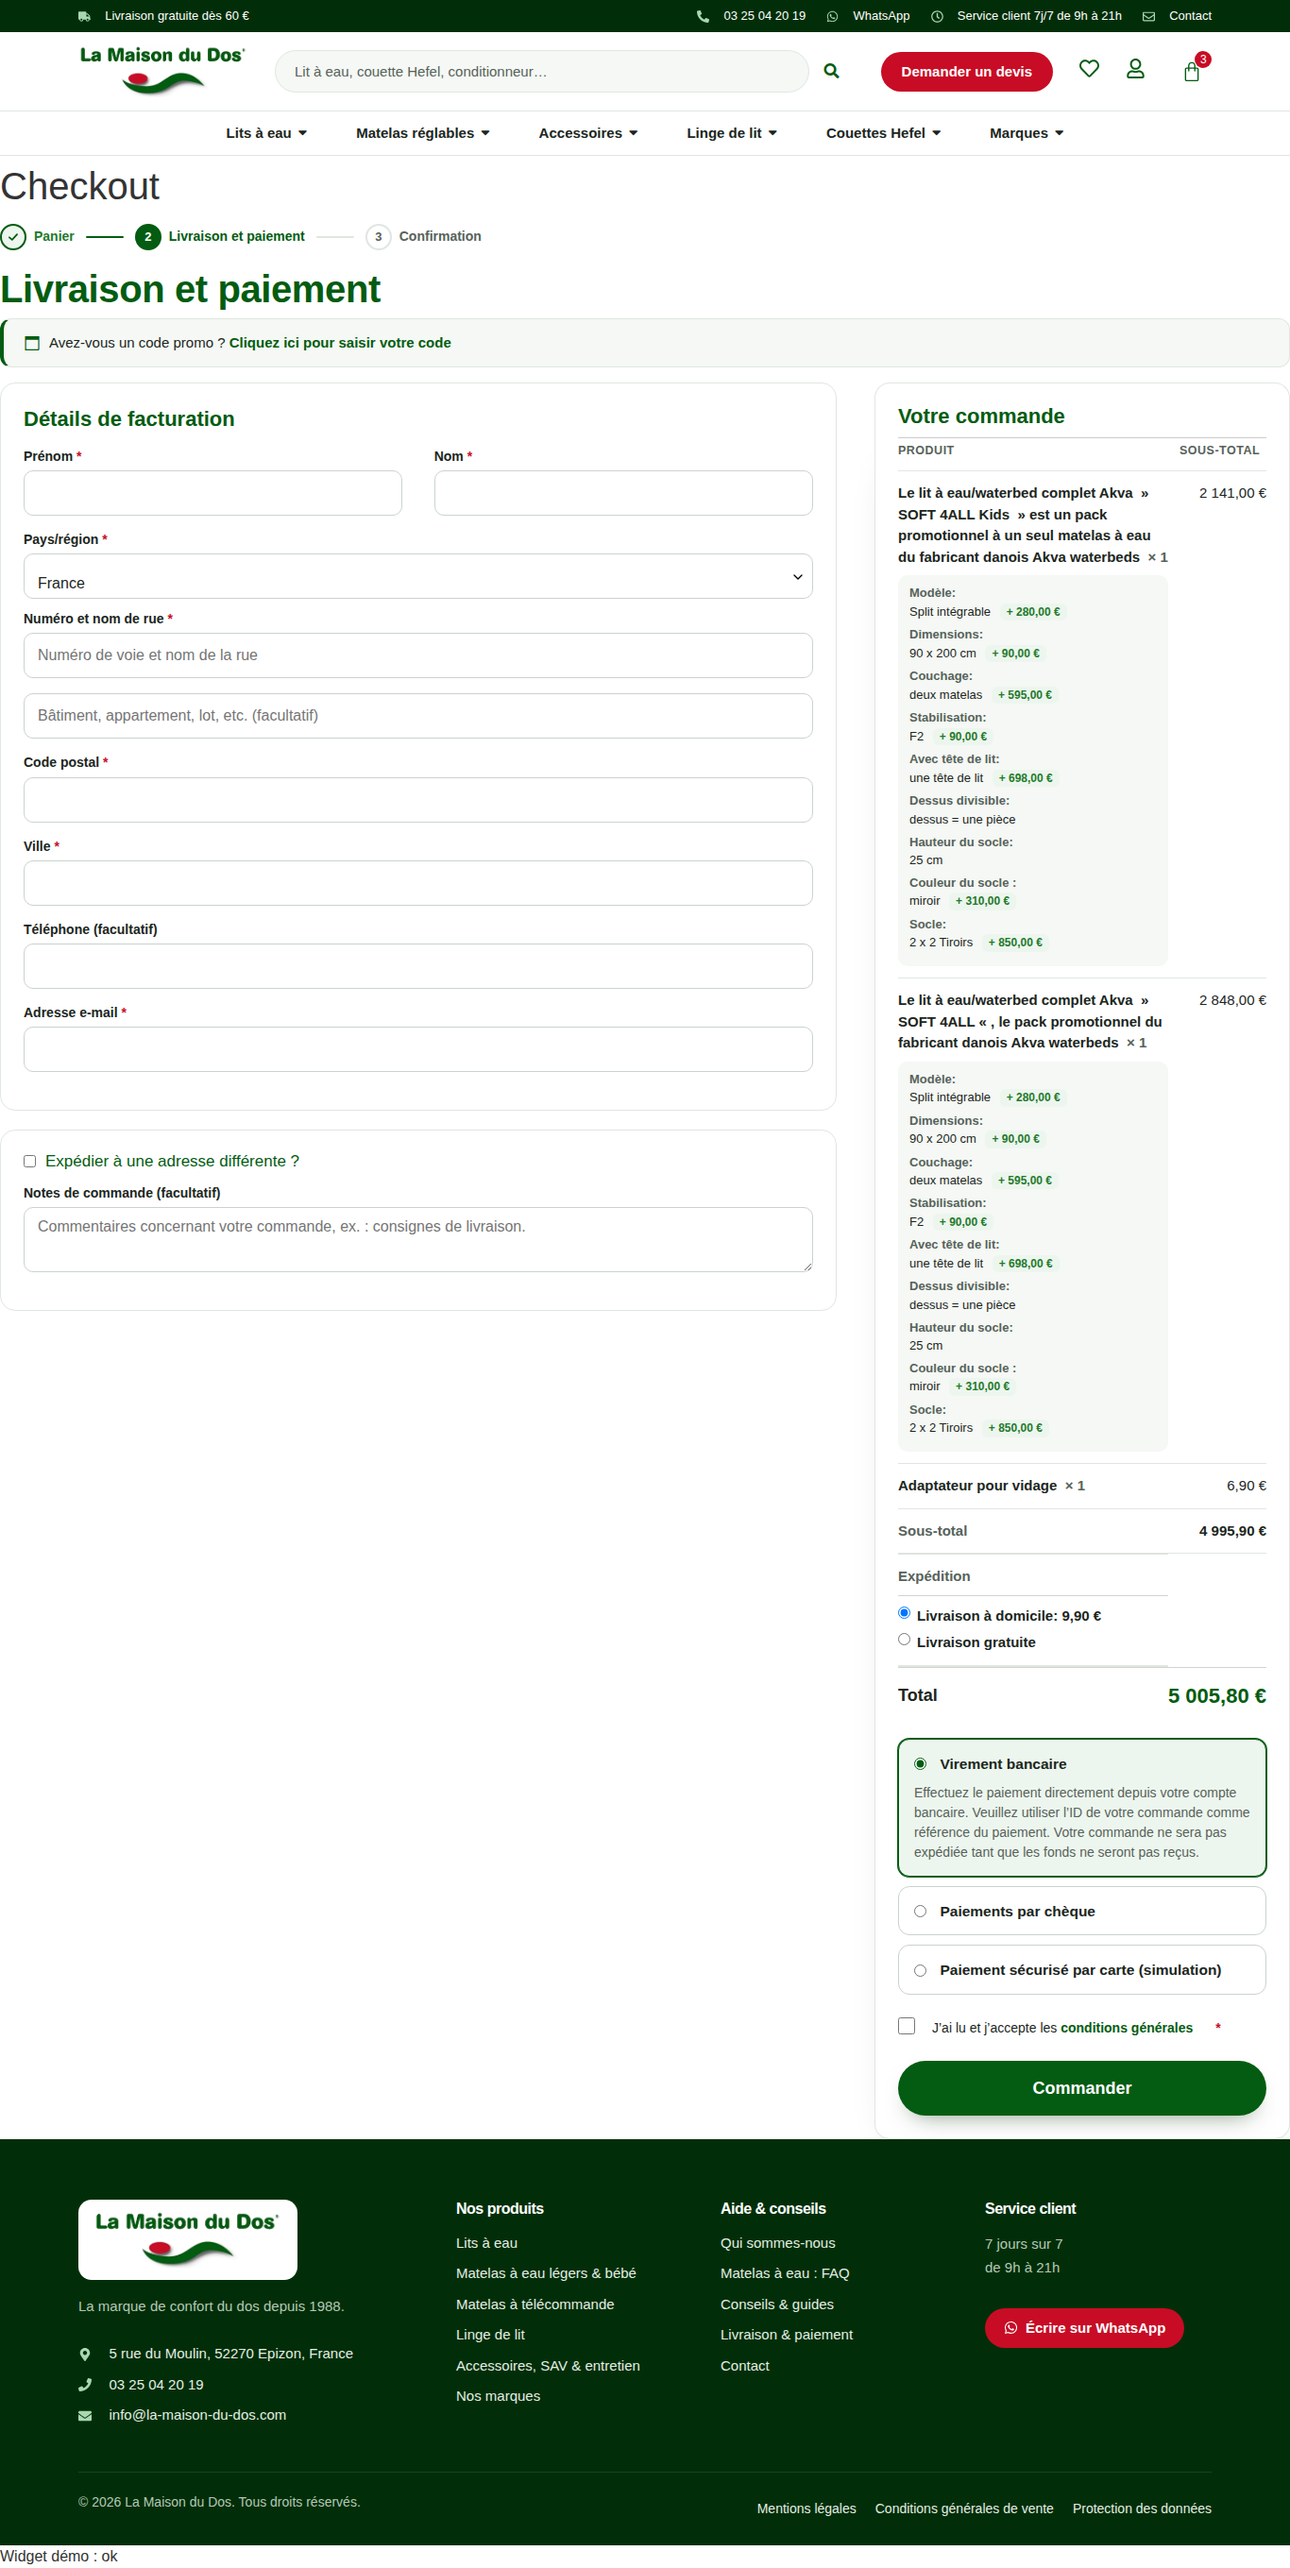
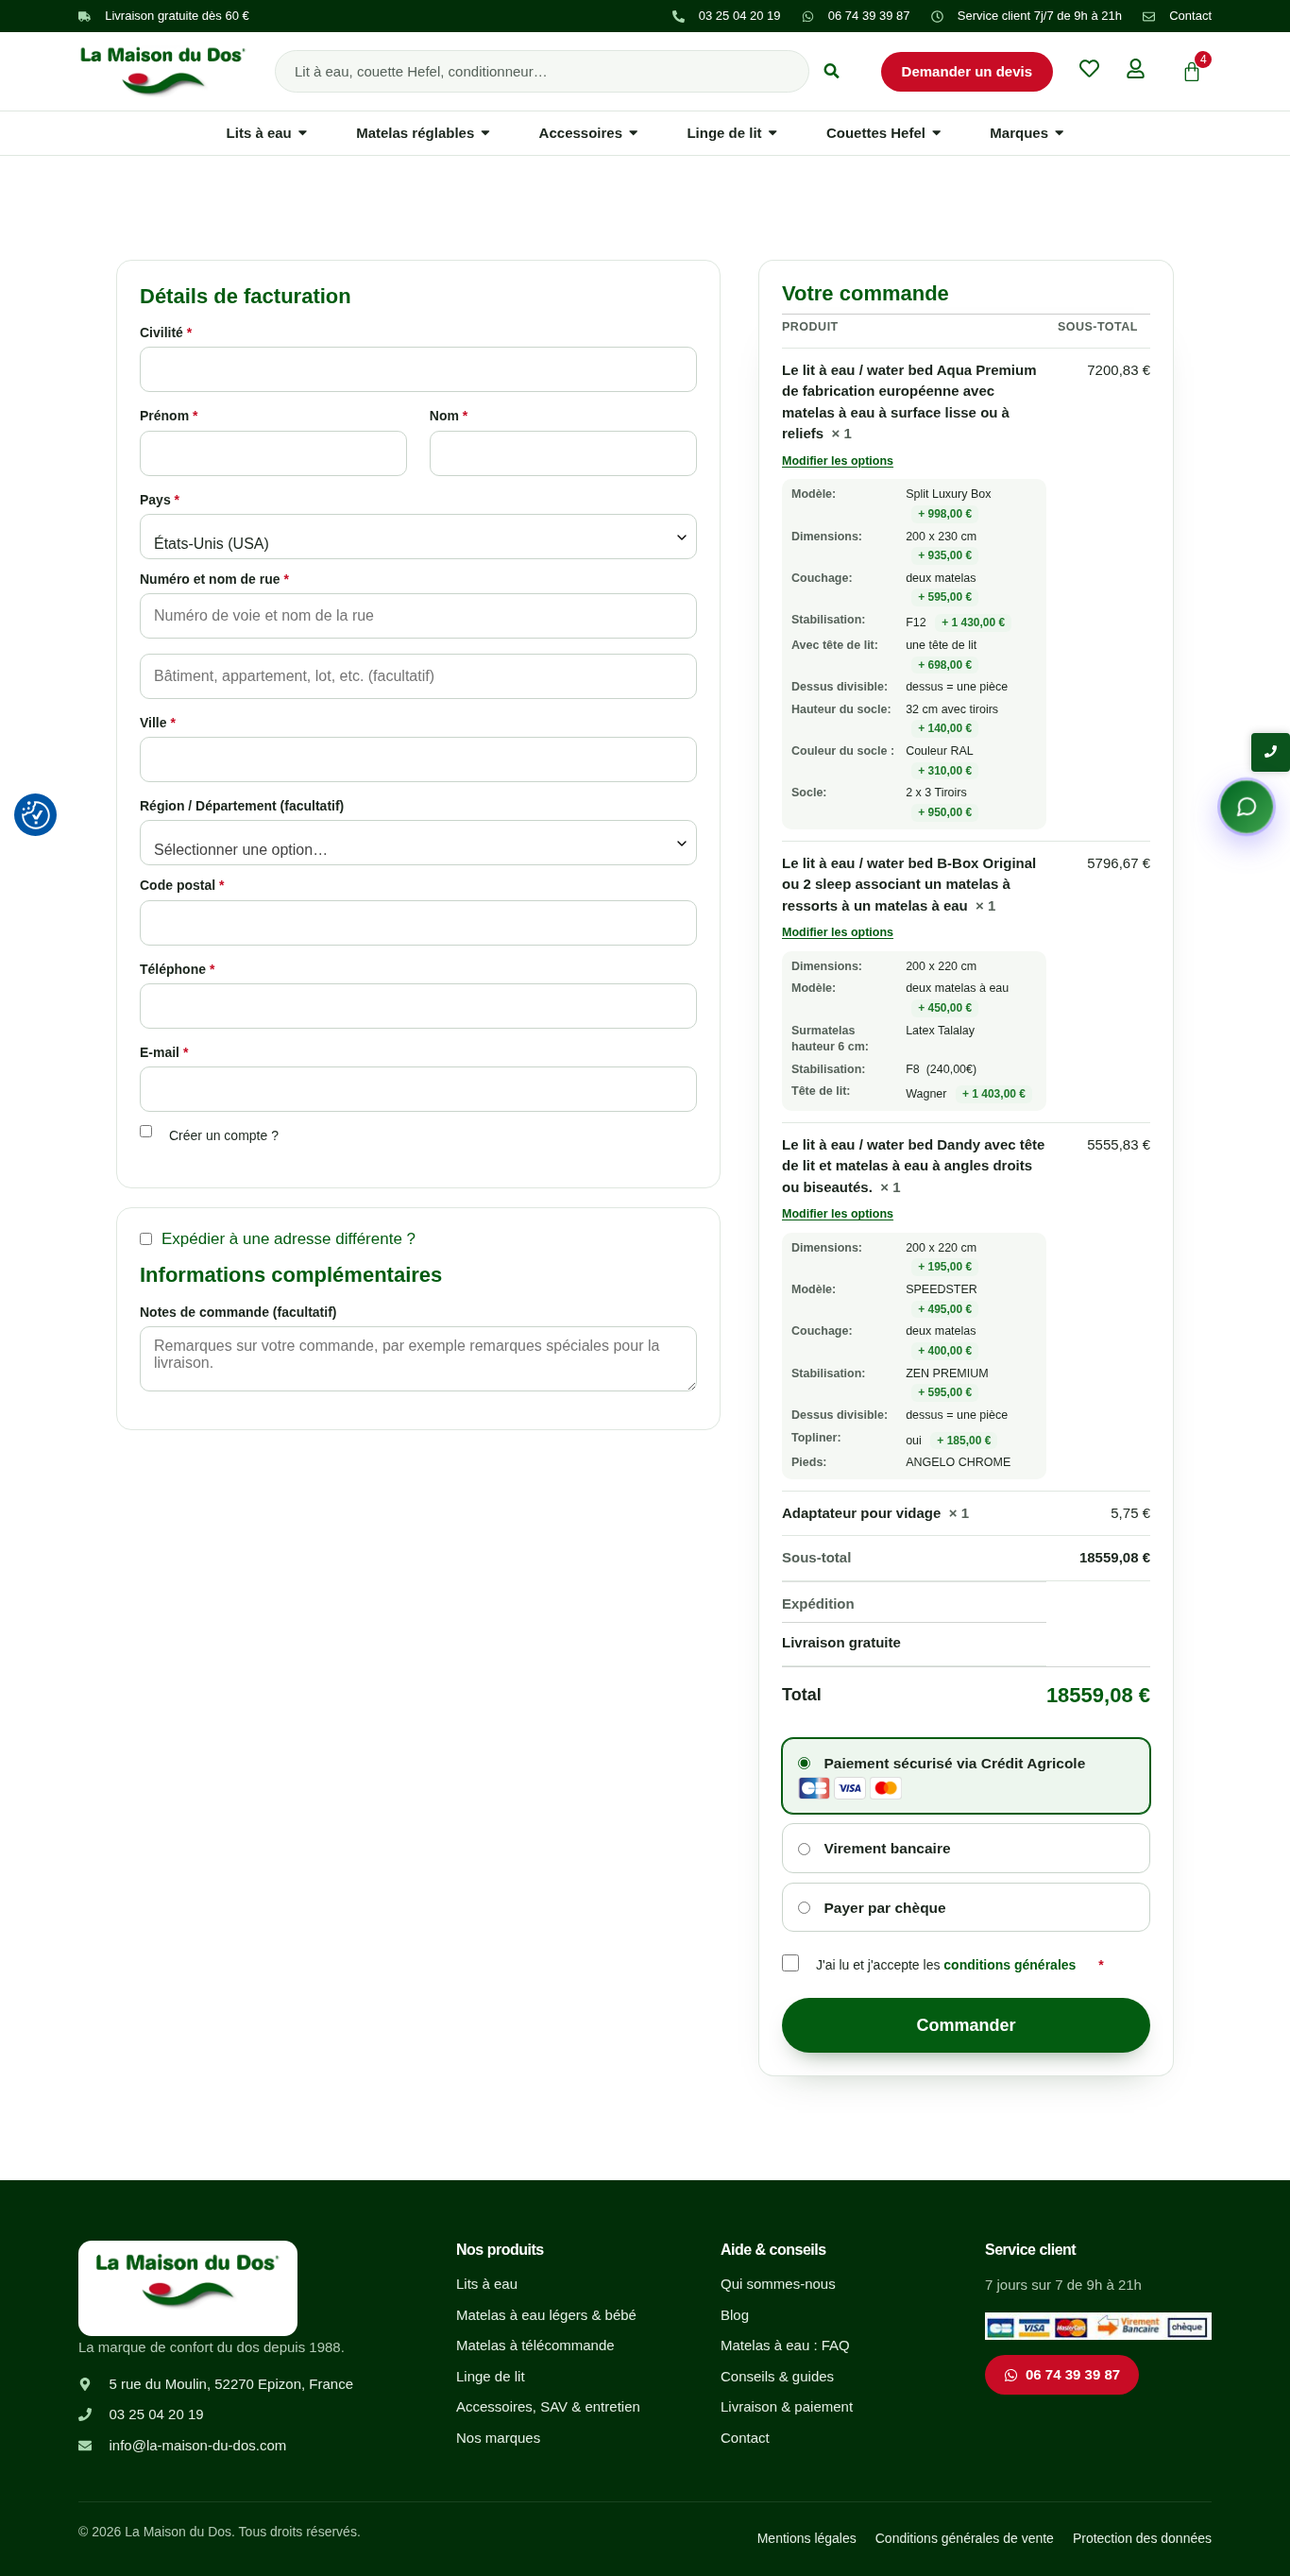
Panier et commande : options lisibles avec les libellés longs de TM Extra Product Options
- options en deux colonnes à largeur garantie (libellé 42 % au plus, valeur
  jamais écrasée) : avec « Stabilisation », « Surmatelas hauteur 6 cm »… la
  valeur s'affichait une lettre par ligne
- colonne Produit du panier élargie (colonnes Prix, Quantité, Image réduites,
  bloc total 340 px) ; même présentation dans le récapitulatif de commande
- suppléments sans signe « (240,00€) » aussi normalisés ; lien « Modifier
  les options » lisible
- vérifié sur le sous-domaine avec 3 lits à eau et leurs options réelles
- lmdd-devis-sav 2.3.2

Claude-Session: https://claude.ai/code/session_015hPKKyvCkyfdUG17wbcqGo

diff --git a/wordpress/plugins/lmdd-devis-sav/assets/lmdd-commande.css b/wordpress/plugins/lmdd-devis-sav/assets/lmdd-commande.css
@@ -32,7 +32,7 @@ body.lmdd-commande .woocommerce a.button, body.lmdd-commande .woocommerce button
 body.lmdd-commande .lmdd-card-box { border: 1px solid var(--lmdd-line); border-radius: 16px; background: #fff; }
 
 /* ---------- Panier : deux colonnes ---------- */
-body.lmdd-commande.woocommerce-cart .woocommerce { display: grid; grid-template-columns: minmax(0, 1fr) 380px; gap: 24px 40px; align-items: start; }
+body.lmdd-commande.woocommerce-cart .woocommerce { display: grid; grid-template-columns: minmax(0, 1fr) 340px; gap: 24px 40px; align-items: start; }
 body.lmdd-commande.woocommerce-cart .woocommerce > * { grid-column: 1 / -1; min-width: 0; }
 body.lmdd-commande.woocommerce-cart .woocommerce > form.woocommerce-cart-form { grid-column: 1; }
 body.lmdd-commande.woocommerce-cart .woocommerce > .cart-collaterals { grid-column: 2; position: sticky; top: 24px; width: auto; float: none; }
@@ -50,18 +50,18 @@ body.lmdd-commande .lmdd-franco__bar span { display: block; height: 100%; border
 
 /* Tableau du panier */
 body.lmdd-commande table.shop_table.cart { table-layout: fixed; width: 100%; margin: 0; border: 1px solid var(--lmdd-line); border-collapse: separate; border-spacing: 0; border-radius: 16px; background: #fff; overflow: hidden; }
-body.lmdd-commande table.shop_table.cart th { padding: 14px 16px; border: 0; border-bottom: 1px solid var(--lmdd-line); background: var(--lmdd-tint); color: var(--lmdd-muted); font-size: 12.5px; font-weight: 700; letter-spacing: .5px; text-transform: uppercase; text-align: left; }
-body.lmdd-commande table.shop_table.cart td { padding: 16px; border: 0; border-bottom: 1px solid var(--lmdd-line); background: #fff; vertical-align: middle; font-size: 15px; }
+body.lmdd-commande table.shop_table.cart th { padding: 14px 10px; border: 0; border-bottom: 1px solid var(--lmdd-line); background: var(--lmdd-tint); color: var(--lmdd-muted); font-size: 12.5px; font-weight: 700; letter-spacing: .5px; text-transform: uppercase; text-align: left; }
+body.lmdd-commande table.shop_table.cart td { padding: 16px 10px; border: 0; border-bottom: 1px solid var(--lmdd-line); background: #fff; vertical-align: middle; font-size: 15px; }
 body.lmdd-commande table.shop_table.cart tr:last-child td { border-bottom: 0; }
-body.lmdd-commande table.shop_table.cart td.product-thumbnail { width: 96px; }
-body.lmdd-commande table.shop_table.cart td.product-thumbnail img { display: block; width: 80px !important; height: 80px; object-fit: cover; border-radius: 12px; background: var(--lmdd-tint); }
+body.lmdd-commande table.shop_table.cart td.product-thumbnail { width: 84px; }
+body.lmdd-commande table.shop_table.cart td.product-thumbnail img { display: block; width: 64px !important; height: 64px; object-fit: cover; border-radius: 12px; background: var(--lmdd-tint); }
 body.lmdd-commande table.shop_table.cart td.product-name a { color: var(--lmdd-text); font-weight: 700; text-decoration: none; }
 body.lmdd-commande table.shop_table.cart td.product-name a:hover { color: var(--lmdd-green); }
 body.lmdd-commande table.shop_table.cart td.product-name dl.variation, body.lmdd-commande table.shop_table.cart td.product-name .tc-epo-metadata { margin: 6px 0 0; color: var(--lmdd-muted); font-size: 13.5px; }
 body.lmdd-commande table.shop_table.cart td.product-subtotal { color: var(--lmdd-green); font-weight: 800; }
 body.lmdd-commande table.shop_table.cart a.remove { display: inline-flex; align-items: center; justify-content: center; width: 32px; height: 32px; border-radius: 50%; color: var(--lmdd-muted) !important; font-size: 20px; line-height: 1; }
 body.lmdd-commande table.shop_table.cart a.remove:hover { background: #FDF2F3; color: var(--lmdd-red) !important; }
-body.lmdd-commande table.shop_table.cart .quantity .qty { width: 72px; min-height: 44px; padding: 6px 8px; border: 1px solid var(--lmdd-field); border-radius: 10px; font-size: 16px; text-align: center; }
+body.lmdd-commande table.shop_table.cart .quantity .qty { width: 60px; min-height: 44px; padding: 6px 8px; border: 1px solid var(--lmdd-field); border-radius: 10px; font-size: 16px; text-align: center; }
 body.lmdd-commande table.shop_table.cart td.actions { padding: 14px 16px; background: var(--lmdd-tint); text-align: right; }
 body.lmdd-commande table.shop_table.cart td.actions .coupon { float: left; display: flex; gap: 8px; }
 body.lmdd-commande table.shop_table.cart td.actions .coupon .input-text { min-height: 42px; width: 180px; padding: 6px 12px; border: 1px solid var(--lmdd-field); border-radius: 10px; }
@@ -69,11 +69,11 @@ body.lmdd-commande table.shop_table.cart td.actions button.button { min-height: 
 body.lmdd-commande table.shop_table.cart td.actions button.button:disabled { border-color: var(--lmdd-line); color: var(--lmdd-muted); opacity: 1; }
 
 /* Largeurs fixes : une longue liste d'options passe à la ligne au lieu d'élargir le tableau (sinon il déborde sous le total). */
-body.lmdd-commande table.shop_table.cart th.product-remove { width: 52px; }
-body.lmdd-commande table.shop_table.cart th.product-thumbnail { width: 104px; }
-body.lmdd-commande table.shop_table.cart th.product-price { width: 108px; }
-body.lmdd-commande table.shop_table.cart th.product-quantity { width: 108px; }
-body.lmdd-commande table.shop_table.cart th.product-subtotal { width: 116px; }
+body.lmdd-commande table.shop_table.cart th.product-remove { width: 40px; }
+body.lmdd-commande table.shop_table.cart th.product-thumbnail { width: 84px; }
+body.lmdd-commande table.shop_table.cart th.product-price { width: 96px; }
+body.lmdd-commande table.shop_table.cart th.product-quantity { width: 84px; }
+body.lmdd-commande table.shop_table.cart th.product-subtotal { width: 108px; }
 body.lmdd-commande table.shop_table.cart td.product-name { overflow-wrap: anywhere; }
 body.lmdd-commande.woocommerce-cart .woocommerce > form.woocommerce-cart-form { overflow: hidden; }
 
@@ -147,10 +147,9 @@ body.lmdd-commande .woocommerce-checkout-review-order-table tr.woocommerce-shipp
 body.lmdd-commande .woocommerce-checkout-review-order-table tr.woocommerce-shipping-totals td { display: block; width: 100%; padding: 8px 0; text-align: left; }
 body.lmdd-commande .woocommerce-checkout-review-order-table tr.woocommerce-shipping-totals th { padding-top: 12px; }
 body.lmdd-commande .woocommerce-checkout-review-order-table tr.woocommerce-shipping-totals th, body.lmdd-commande .woocommerce-checkout-review-order-table tr.woocommerce-shipping-totals td { border-bottom: 0; }
-body.lmdd-commande .woocommerce-checkout-review-order-table tr.woocommerce-shipping-totals { display: block; border-bottom: 1px solid var(--lmdd-line); }
-/* Options dans le récapitulatif (colonne étroite) : libellé au-dessus du choix. */
-body.lmdd-commande #order_review dl.variation, body.lmdd-commande #order_review dl.tc-epo-metadata { grid-template-columns: minmax(0, 1fr); gap: 1px; font-size: 13px; }
-body.lmdd-commande #order_review dl.variation dd, body.lmdd-commande #order_review dl.tc-epo-metadata dd { margin-bottom: 5px !important; }
+body.lmdd-commande .woocommerce-checkout-review-order-table tr.woocommerce-shipping-totals { display: block; width: 100%; border-bottom: 1px solid var(--lmdd-line); }
+/* Options dans le récapitulatif : même présentation que le panier, un peu plus petite. */
+body.lmdd-commande #order_review dl.variation, body.lmdd-commande #order_review dl.tc-epo-metadata { font-size: 12.5px; padding: 8px 10px; }
 
 /* Moyens de paiement */
 body.lmdd-commande #payment { margin-top: 18px; border-radius: 0; background: none; }

diff --git a/wordpress/plugins/lmdd-devis-sav/assets/lmdd-options.css b/wordpress/plugins/lmdd-devis-sav/assets/lmdd-options.css
@@ -1,18 +1,18 @@
 /* LMDD – options des produits (TM Extra Product Options, variations) dans le panier, la commande et le compte client.
    Une ligne par option : libellé à gauche, choix à droite, supplément dans une petite pastille. Toujours chargée sur ces pages. */
 html body .woocommerce dl.variation, html body dl.tc-epo-metadata {
-  display: grid !important; grid-template-columns: max-content minmax(0, 1fr); gap: 5px 14px; float: none; width: auto; max-width: 100%;
+  display: grid !important; grid-template-columns: minmax(64px, 42%) minmax(0, 1fr); gap: 6px 12px; float: none; width: auto; max-width: 100%;
   margin: 8px 0 0; padding: 10px 12px; border: 0; border-radius: 10px; background: #F5F8F4; font-size: 13.5px; font-weight: 400; font-style: normal; line-height: 1.4; }
 html body .woocommerce dl.variation dt, html body dl.tc-epo-metadata dt {
   display: block !important; float: none !important; clear: none !important; width: auto !important; margin: 0 !important; padding: 0 !important;
-  color: #56625A; font-weight: 600; white-space: normal; word-break: normal; overflow-wrap: normal; hyphens: none; }
+  color: #56625A; font-weight: 600; white-space: normal; word-break: normal; overflow-wrap: break-word; hyphens: auto; }
 html body .woocommerce dl.variation dd, html body dl.tc-epo-metadata dd {
   display: block !important; float: none !important; width: auto !important; margin: 0 !important; padding: 0 !important;
-  color: #1B261D; word-break: normal; overflow-wrap: anywhere; }
+  color: #1B261D; word-break: normal; overflow-wrap: break-word; }
 html body .woocommerce dl.variation dd p, html body dl.tc-epo-metadata dd p { display: inline; margin: 0; }
 html body dl.tc-epo-metadata .tc-price-in-cart:empty, html body dl.tc-epo-metadata .tc-quantity-in-cart:empty { display: none; }
-html body .lmdd-opt-price { display: inline-block; margin-left: 6px; padding: 1px 7px; border-radius: 6px; background: #EDF6EE; color: #1F7A2C; font-size: 12px; font-weight: 700; white-space: nowrap; }
-html body a.tm-cart-edit-options { display: inline-block; margin: 6px 0 0; color: #035C11; font-size: 12.5px; font-style: normal; font-weight: 700; text-decoration: underline; text-underline-offset: 2px; }
+html body .lmdd-opt-price { display: inline-block; margin: 2px 0 0 6px; padding: 1px 7px; border-radius: 6px; background: #EDF6EE; color: #1F7A2C; font-size: 12px; font-weight: 700; white-space: nowrap; }
+html body a.tm-cart-edit-options { display: inline-block; margin: 6px 0 0; color: #035C11 !important; font-size: 12.5px !important; font-style: normal !important; font-weight: 700; text-decoration: underline; text-underline-offset: 2px; }
 /* Écran étroit : libellé au-dessus du choix. */
 @media (max-width: 480px) {
   html body .woocommerce dl.variation, html body dl.tc-epo-metadata { grid-template-columns: minmax(0, 1fr); gap: 2px; }

diff --git a/wordpress/plugins/lmdd-devis-sav/includes/class-lmdd-ds-commande.php b/wordpress/plugins/lmdd-devis-sav/includes/class-lmdd-ds-commande.php
@@ -43,7 +43,7 @@ final class LMDD_DS_Commande {
 	}
 
 	public static function format_option_prices( $html ) {
-		return preg_replace_callback( '/\(\s*([+-])\s*([\d][\d\s\x{00A0}\x{202F}.,]*)\s*(?:€|&euro;|EUR)\s*\)/u', function ( $m ) {
+		return preg_replace_callback( '/\(\s*([+-]?)\s*([\d][\d\s\x{00A0}\x{202F}.,]*)\s*(?:€|&euro;|EUR)\s*\)/u', function ( $m ) {
 			$n = preg_replace( '/[\s\x{00A0}\x{202F}]/u', '', $m[2] );
 			if ( preg_match( '/^\d{1,3}(\.\d{3})+(,\d+)?$/', $n ) ) {        // 1.280,00
 				$n = str_replace( array( '.', ',' ), array( '', '.' ), $n );
@@ -51,7 +51,7 @@ final class LMDD_DS_Commande {
 				$n = preg_match( '/,\d{1,2}$/', $n ) ? str_replace( array( '.', ',' ), array( '', '.' ), $n ) : str_replace( ',', '', $n );
 			}
 			$v = number_format( (float) $n, 2, ',', ' ' );
-			return '<span class="lmdd-opt-price">' . $m[1] . ' ' . $v . ' €</span>';
+			return '<span class="lmdd-opt-price">' . ( '' !== $m[1] ? $m[1] . ' ' : '' ) . $v . ' €</span>';
 		}, $html );
 	}
 

diff --git a/wordpress/plugins/lmdd-devis-sav/lmdd-devis-sav.php b/wordpress/plugins/lmdd-devis-sav/lmdd-devis-sav.php
@@ -2,7 +2,7 @@
 /**
  * Plugin Name:       LMDD – Devis & SAV
  * Description:       Demande de devis affichée sur place dans la fiche produit et formulaire SAV en étapes, avec Contact Form 7 (champs et e-mails modifiables), pièces avec prix en direct, copie de secours des demandes (menu « Demandes clients »).
- * Version:           2.3.1
+ * Version:           2.3.2
  * Requires at least: 6.2
  * Requires PHP:      7.4
  * Requires Plugins:  woocommerce, contact-form-7
@@ -11,7 +11,7 @@
 
 defined( 'ABSPATH' ) || exit;
 
-define( 'LMDD_DS_VERSION', '2.3.1' );
+define( 'LMDD_DS_VERSION', '2.3.2' );
 define( 'LMDD_DS_FILE', __FILE__ );
 
 require_once __DIR__ . '/includes/class-lmdd-ds-store.php';

diff --git a/wordpress/plugins/lmdd-devis-sav/LISEZ-MOI.md b/wordpress/plugins/lmdd-devis-sav/LISEZ-MOI.md
@@ -133,7 +133,7 @@ Nouvelle mise en page des pages WooCommerce classiques (`[woocommerce_cart]` et 
 
 **Toujours actif, avec ou sans la nouvelle mise en page (version 2.3.1) :**
 - **Options des produits** (TM Extra Product Options) dans le panier, la commande et le compte client :
-  - une ligne par option, libellé à gauche et choix à droite (l'un sous l'autre sur mobile) ;
+  - une ligne par option, libellé à gauche (42 % au plus, il passe à la ligne s'il est long) et choix à droite ;
   - suppléments au même format dans une pastille verte : « + 698,00 € » au lieu de « (+ 698.00€) » ;
   - feuille de style de moins de 1 Ko.
 - **Panier avec beaucoup de produits** : le tableau garde sa largeur, les options passent à la ligne. Il ne déborde plus sous le bloc « Total panier ».
